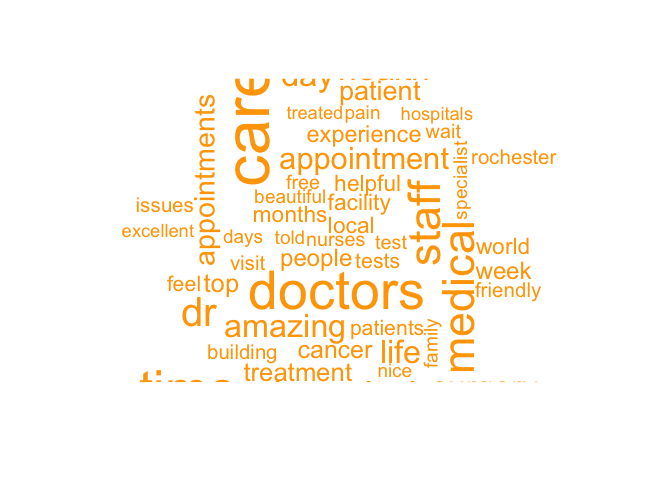
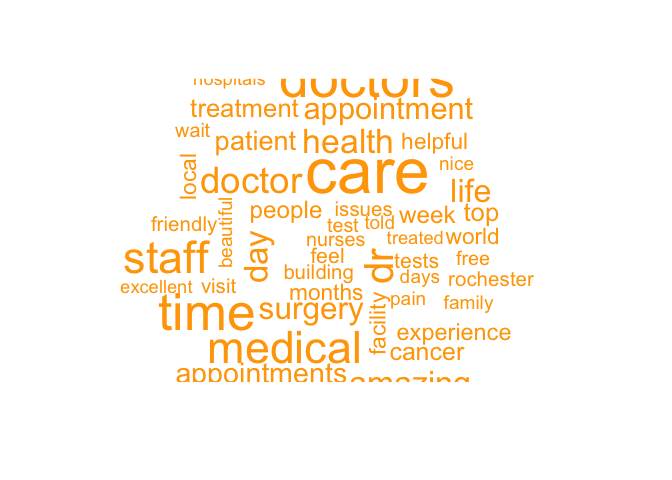
push

Changed region(s): [[0.1562, 0.1562, 0.8438, 0.8125]]

diff --git a/Mayo-Clinic-Yelp-Review-Text-Analysis.md b/Mayo-Clinic-Yelp-Review-Text-Analysis.md
@@ -716,11 +716,8 @@ wordcloud(
 )
 ```
 
-    ## Warning in wordcloud(words = data7$word, freq = data7$n, max.words = 50, : care
-    ## could not be fit on page. It will not be plotted.
-
     ## Warning in wordcloud(words = data7$word, freq = data7$n, max.words = 50, :
-    ## appointments could not be fit on page. It will not be plotted.
+    ## doctor could not be fit on page. It will not be plotted.
 
 ![](Mayo-Clinic-Yelp-Review-Text-Analysis_files/figure-gfm/unnamed-chunk-23-1.png)<!-- -->
 
@@ -776,16 +773,13 @@ wordcloud(
 ```
 
     ## Warning in wordcloud(words = data_A1T$word, freq = data_A1T$n, max.words = 50, :
-    ## absolutely could not be fit on page. It will not be plotted.
+    ## surgery could not be fit on page. It will not be plotted.
 
     ## Warning in wordcloud(words = data_A1T$word, freq = data_A1T$n, max.words = 50, :
-    ## doctor could not be fit on page. It will not be plotted.
+    ## care could not be fit on page. It will not be plotted.
 
     ## Warning in wordcloud(words = data_A1T$word, freq = data_A1T$n, max.words = 50, :
-    ## months could not be fit on page. It will not be plotted.
-
-    ## Warning in wordcloud(words = data_A1T$word, freq = data_A1T$n, max.words = 50, :
-    ## experience could not be fit on page. It will not be plotted.
+    ## hospital could not be fit on page. It will not be plotted.
 
 ![](Mayo-Clinic-Yelp-Review-Text-Analysis_files/figure-gfm/unnamed-chunk-25-1.png)<!-- -->
 
@@ -918,6 +912,14 @@ alone should be a sole tool to understand.
 ## Appendix
 
 ## Inspiration for this project
+
+Having worked at a non-profit hopsital for six years made me realize the
+importance of healthcare providers, patients, and the entire health
+ecosystem. I wanted to see how my hospital ranked among others. Needless
+to say, we did not make the rankings. That realization did spark an
+interest to see what metrics did the top hospitals had over othres. I
+wanted to take a different approach and use patients reviews as a
+metric.
 
 [^1]: <https://www.chcf.org/publication/2022-edition-health-care-costs-101/>
 
